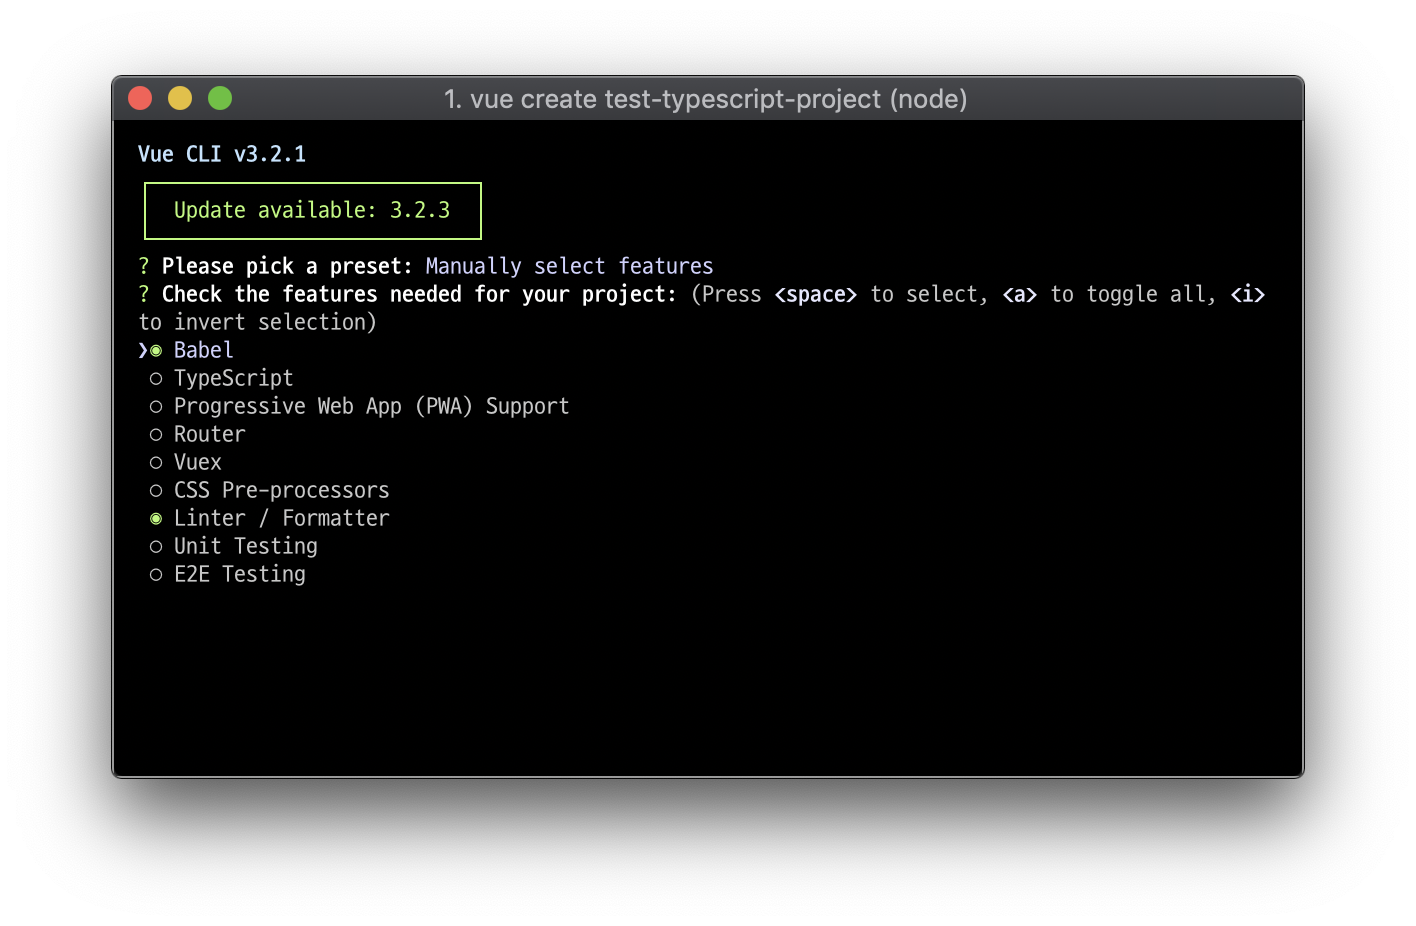
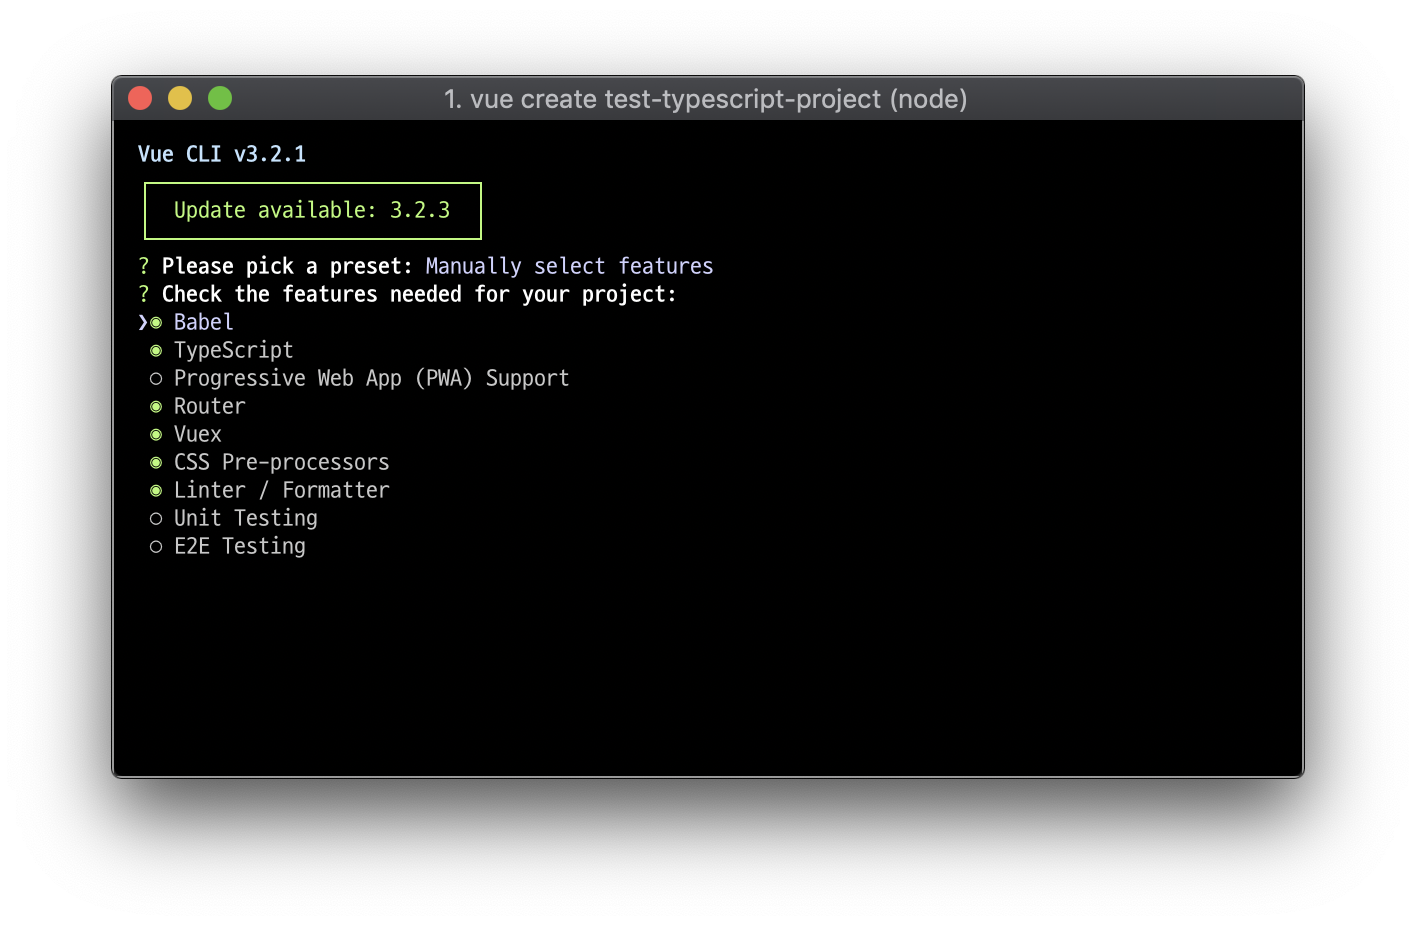
Site updated: 2019-01-08 00:49:58

Changed region(s): [[0.0932, 0.3326, 0.404, 0.635], [0.4972, 0.3024, 0.839, 0.3326], [0.8701, 0.3024, 0.9011, 0.3326]]

diff --git a/2018/10/26/vue-typescript-1/index.html b/2018/10/26/vue-typescript-1/index.html
@@ -17,7 +17,12 @@
 <meta property="og:locale" content="Korean">
 <meta property="og:image" content="https://jeonghunkim8.github.io/2018/10/26/vue-typescript-1/1.png">
 <meta property="og:image" content="https://jeonghunkim8.github.io/2018/10/26/vue-typescript-1/2.png">
-<meta property="og:updated_time" content="2019-01-07T15:19:41.449Z">
+<meta property="og:image" content="https://jeonghunkim8.github.io/2018/10/26/vue-typescript-1/3.png">
+<meta property="og:image" content="https://jeonghunkim8.github.io/2018/10/26/vue-typescript-1/4.png">
+<meta property="og:image" content="https://jeonghunkim8.github.io/2018/10/26/vue-typescript-1/5.png">
+<meta property="og:image" content="https://jeonghunkim8.github.io/2018/10/26/vue-typescript-1/6.png">
+<meta property="og:image" content="https://jeonghunkim8.github.io/2018/10/26/vue-typescript-1/7.png">
+<meta property="og:updated_time" content="2019-01-07T15:49:40.776Z">
 <meta name="twitter:card" content="summary">
 <meta name="twitter:title" content="VueJS 에서 Typescript로 개발하기">
 <meta name="twitter:description" content="사전 준비Typescript로 VueJS 프로젝트를 사용하는 방법을 알아봅니다. pc 또는 mac에 nodejs와 npm이 설치 되어 있다는 전제 하에 진행합니다. vue-cli 2 버전대에서는 Typescript를 지원하지 않았지만, 3버전대로 업그레이드 되면서, Typescript를 공식적으로 지원하기 시작했습니다. 기존에는 프로젝트 생성 후 수동으로">
@@ -108,14 +113,34 @@
 <p>그러나, 터미널이 더 편한 개발자들도 많을 것 같습니다.<br>(속도도 더 빠르구요..)</p>
 <figure class="highlight plain"><table><tr><td class="gutter"><pre><span class="line">1</span><br></pre></td><td class="code"><pre><span class="line">vue create test-typescript-project</span><br></pre></td></tr></table></figure>
 <p>터미널에서 위 명령어를 입력합니다.</p>
-<p><img src="1.png" alt=""></p>
+<img src="/2018/10/26/vue-typescript-1/1.png" title="사진1">
 <p>default(babel, eslint) 와 Manually select features 를 선택할 수 있습니다. 우리는 typescript를 사용할 것이기 때문에 Manually select features를 선택합니다.</p>
-<p><img src="2.png" alt=""></p>
+<p>선택한 후 프로젝트 구성에 맞는 옵션을 선택 합니다.</p>
+<img src="/2018/10/26/vue-typescript-1/2.png" title="사진2">
+<p>이번 샘플 프로젝트에서는 Babel, <strong>Typescript</strong>, Router, Vuex, CSS Pre-processors, Linter/Formatter만 선택하고 진행합니다.<br>(Unit Test나 E2E Testing은 제외합니다. 언제든 추후에 추가할 수 있습니다.)</p>
+<p>babel은 js를 컴파일 하기 위한 녀석이라고 보면 되고, 두번째, Typescript가 핵심입니다.</p>
+<p>Router는 라우팅 경로를 컨트롤하기 위한 vue 플러그인, Vuex는 상태관리를 위한 vue 플러그인이고,</p>
+<p>CSS Pre-processors는 SCSS를 사용하기 위함, Linter/Formatter는 문법 검사 하는 녀석이라고 생각하면 됩니다. <del>(더이상의 자세한 설명은 생략한다)</del></p>
+<p>옵션들을 선택하고 <code>Enter</code>를 누르면, 아래와 같은 질문을 만나게 됩니다.</p>
+<img src="/2018/10/26/vue-typescript-1/3.png" title="사진3">
+<p>아래 첨부한 그림과 같이 선택해 줍니다.</p>
+<img src="/2018/10/26/vue-typescript-1/4.png" title="사진4">
+<p>모두 선택 한 후 또다시 <code>Enter</code>!!!</p>
+<p>조금 기다린 후에, 아래와 같이 프로젝트가 완성 되었다는 메세지를 만날 수 있습니다.</p>
+<img src="/2018/10/26/vue-typescript-1/5.png" title="사진5">
+<p>터미널 하단에 성공적으로 프로젝트가 생성되었다는 메세지와 함께, 테스트 해볼 수 있는 명령어를 예시로 들어줍니다.</p>
+<p>터미널에 그대로 입력해 봅니다.<br>로컬 개발 서버가 구동됩니다.</p>
+<figure class="highlight plain"><table><tr><td class="gutter"><pre><span class="line">1</span><br><span class="line">2</span><br></pre></td><td class="code"><pre><span class="line">cd test-typescript-project</span><br><span class="line">yarn serve</span><br></pre></td></tr></table></figure>
+<img src="/2018/10/26/vue-typescript-1/6.png" title="사진6">
+<p>성공적으로 컴파일 되었다는 메세지와 함께<br>브라우저로 개발서버에 접속해 볼 수 있는 주소가 표시됩니다.</p>
+<img src="/2018/10/26/vue-typescript-1/7.png" title="사진7">
+<p>잘 작동되는것을 확인해 볼 수 있습니다.</p>
+<p>다음 포스트에서는 대략적인 폴더 구조와 컴포넌트 구성을 해보겠습니다.<br>감사합니다.</p>
 
       
     </div>
     <footer class="article-footer">
-      <a data-url="https://jeonghunkim8.github.io/2018/10/26/vue-typescript-1/" data-id="cjqmh5r4u0000aozu1vrapwwh" class="article-share-link">Share</a>
+      <a data-url="https://jeonghunkim8.github.io/2018/10/26/vue-typescript-1/" data-id="cjqmi5c8d0000ypzus4drolm3" class="article-share-link">Share</a>
       
       
   <ul class="article-tag-list"><li class="article-tag-list-item"><a class="article-tag-list-link" href="/tags/TypeScript/">TypeScript</a></li><li class="article-tag-list-item"><a class="article-tag-list-link" href="/tags/VueJS/">VueJS</a></li></ul>

diff --git a/index.html b/index.html
@@ -102,14 +102,34 @@
 <p>그러나, 터미널이 더 편한 개발자들도 많을 것 같습니다.<br>(속도도 더 빠르구요..)</p>
 <figure class="highlight plain"><table><tr><td class="gutter"><pre><span class="line">1</span><br></pre></td><td class="code"><pre><span class="line">vue create test-typescript-project</span><br></pre></td></tr></table></figure>
 <p>터미널에서 위 명령어를 입력합니다.</p>
-<p><img src="1.png" alt=""></p>
+<img src="/2018/10/26/vue-typescript-1/1.png" title="사진1">
 <p>default(babel, eslint) 와 Manually select features 를 선택할 수 있습니다. 우리는 typescript를 사용할 것이기 때문에 Manually select features를 선택합니다.</p>
-<p><img src="2.png" alt=""></p>
+<p>선택한 후 프로젝트 구성에 맞는 옵션을 선택 합니다.</p>
+<img src="/2018/10/26/vue-typescript-1/2.png" title="사진2">
+<p>이번 샘플 프로젝트에서는 Babel, <strong>Typescript</strong>, Router, Vuex, CSS Pre-processors, Linter/Formatter만 선택하고 진행합니다.<br>(Unit Test나 E2E Testing은 제외합니다. 언제든 추후에 추가할 수 있습니다.)</p>
+<p>babel은 js를 컴파일 하기 위한 녀석이라고 보면 되고, 두번째, Typescript가 핵심입니다.</p>
+<p>Router는 라우팅 경로를 컨트롤하기 위한 vue 플러그인, Vuex는 상태관리를 위한 vue 플러그인이고,</p>
+<p>CSS Pre-processors는 SCSS를 사용하기 위함, Linter/Formatter는 문법 검사 하는 녀석이라고 생각하면 됩니다. <del>(더이상의 자세한 설명은 생략한다)</del></p>
+<p>옵션들을 선택하고 <code>Enter</code>를 누르면, 아래와 같은 질문을 만나게 됩니다.</p>
+<img src="/2018/10/26/vue-typescript-1/3.png" title="사진3">
+<p>아래 첨부한 그림과 같이 선택해 줍니다.</p>
+<img src="/2018/10/26/vue-typescript-1/4.png" title="사진4">
+<p>모두 선택 한 후 또다시 <code>Enter</code>!!!</p>
+<p>조금 기다린 후에, 아래와 같이 프로젝트가 완성 되었다는 메세지를 만날 수 있습니다.</p>
+<img src="/2018/10/26/vue-typescript-1/5.png" title="사진5">
+<p>터미널 하단에 성공적으로 프로젝트가 생성되었다는 메세지와 함께, 테스트 해볼 수 있는 명령어를 예시로 들어줍니다.</p>
+<p>터미널에 그대로 입력해 봅니다.<br>로컬 개발 서버가 구동됩니다.</p>
+<figure class="highlight plain"><table><tr><td class="gutter"><pre><span class="line">1</span><br><span class="line">2</span><br></pre></td><td class="code"><pre><span class="line">cd test-typescript-project</span><br><span class="line">yarn serve</span><br></pre></td></tr></table></figure>
+<img src="/2018/10/26/vue-typescript-1/6.png" title="사진6">
+<p>성공적으로 컴파일 되었다는 메세지와 함께<br>브라우저로 개발서버에 접속해 볼 수 있는 주소가 표시됩니다.</p>
+<img src="/2018/10/26/vue-typescript-1/7.png" title="사진7">
+<p>잘 작동되는것을 확인해 볼 수 있습니다.</p>
+<p>다음 포스트에서는 대략적인 폴더 구조와 컴포넌트 구성을 해보겠습니다.<br>감사합니다.</p>
 
       
     </div>
     <footer class="article-footer">
-      <a data-url="https://jeonghunkim8.github.io/2018/10/26/vue-typescript-1/" data-id="cjqmh5r4u0000aozu1vrapwwh" class="article-share-link">Share</a>
+      <a data-url="https://jeonghunkim8.github.io/2018/10/26/vue-typescript-1/" data-id="cjqmi5c8d0000ypzus4drolm3" class="article-share-link">Share</a>
       
       
   <ul class="article-tag-list"><li class="article-tag-list-item"><a class="article-tag-list-link" href="/tags/TypeScript/">TypeScript</a></li><li class="article-tag-list-item"><a class="article-tag-list-link" href="/tags/VueJS/">VueJS</a></li></ul>
@@ -207,7 +227,7 @@
       
     </div>
     <footer class="article-footer">
-      <a data-url="https://jeonghunkim8.github.io/2018/10/09/AmazonMQ-사용하기/" data-id="cjqmh5r610005aozuo7t569j0" class="article-share-link">Share</a>
+      <a data-url="https://jeonghunkim8.github.io/2018/10/09/AmazonMQ-사용하기/" data-id="cjqmi5c9h0005ypzuksh07nzt" class="article-share-link">Share</a>
       
       
   <ul class="article-tag-list"><li class="article-tag-list-item"><a class="article-tag-list-link" href="/tags/ActiveMQ/">ActiveMQ</a></li><li class="article-tag-list-item"><a class="article-tag-list-link" href="/tags/AmazonMQ/">AmazonMQ</a></li><li class="article-tag-list-item"><a class="article-tag-list-link" href="/tags/Java/">Java</a></li><li class="article-tag-list-item"><a class="article-tag-list-link" href="/tags/Spring/">Spring</a></li></ul>

diff --git a/2018/10/09/AmazonMQ-사용하기/index.html b/2018/10/09/AmazonMQ-사용하기/index.html
@@ -151,7 +151,7 @@
       
     </div>
     <footer class="article-footer">
-      <a data-url="https://jeonghunkim8.github.io/2018/10/09/AmazonMQ-사용하기/" data-id="cjqmh5r610005aozuo7t569j0" class="article-share-link">Share</a>
+      <a data-url="https://jeonghunkim8.github.io/2018/10/09/AmazonMQ-사용하기/" data-id="cjqmi5c9h0005ypzuksh07nzt" class="article-share-link">Share</a>
       
       
   <ul class="article-tag-list"><li class="article-tag-list-item"><a class="article-tag-list-link" href="/tags/ActiveMQ/">ActiveMQ</a></li><li class="article-tag-list-item"><a class="article-tag-list-link" href="/tags/AmazonMQ/">AmazonMQ</a></li><li class="article-tag-list-item"><a class="article-tag-list-link" href="/tags/Java/">Java</a></li><li class="article-tag-list-item"><a class="article-tag-list-link" href="/tags/Spring/">Spring</a></li></ul>
